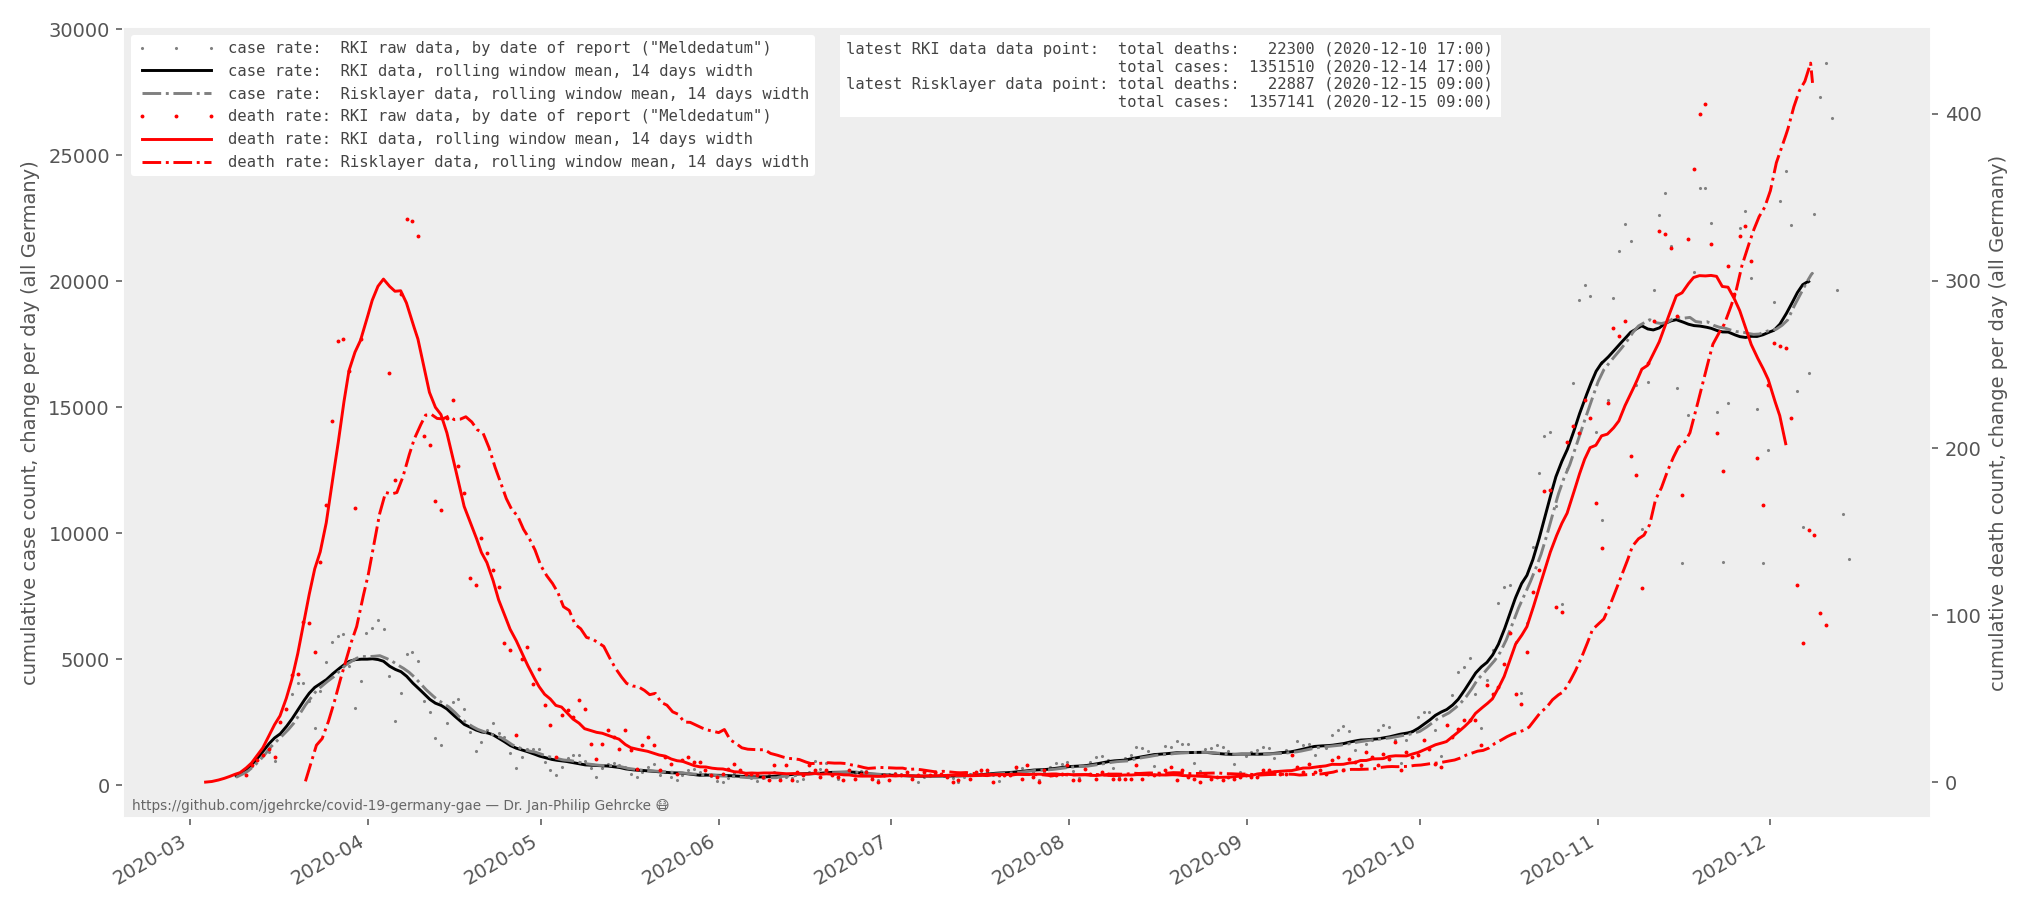
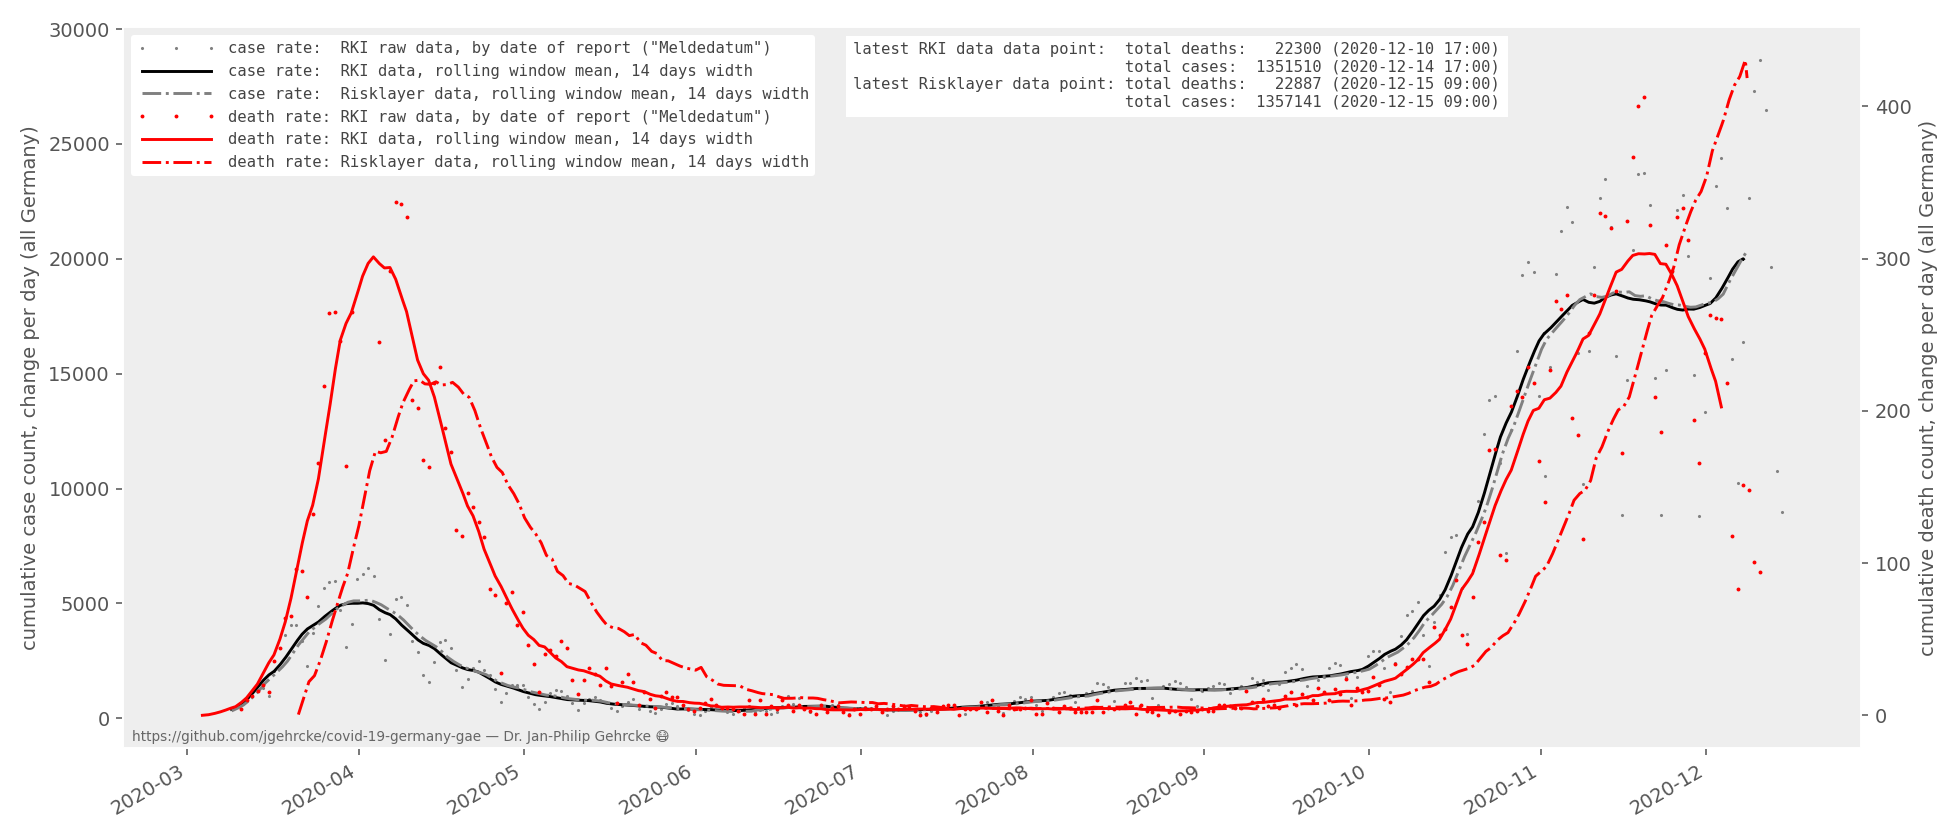
daily plot: slightly larger fonts

diff --git a/tools/plot-compare-sources.py b/tools/plot-compare-sources.py
@@ -224,7 +224,7 @@ def main():
 
     # -----------
 
-    plt.figure(figsize=(14.5, 6.5))
+    plt.figure(figsize=(14.0, 6.0))
 
     ax = df_rki["cases_change_per_day"].plot(
         linestyle="None", marker="o", color="gray", markersize=0.6
@@ -323,8 +323,8 @@ def main():
     ).strip()
 
     ax2.text(
-        0.40,
-        0.900,
+        0.42,
+        0.890,
         annotation,
         fontsize=8,
         transform=ax2.transAxes,
